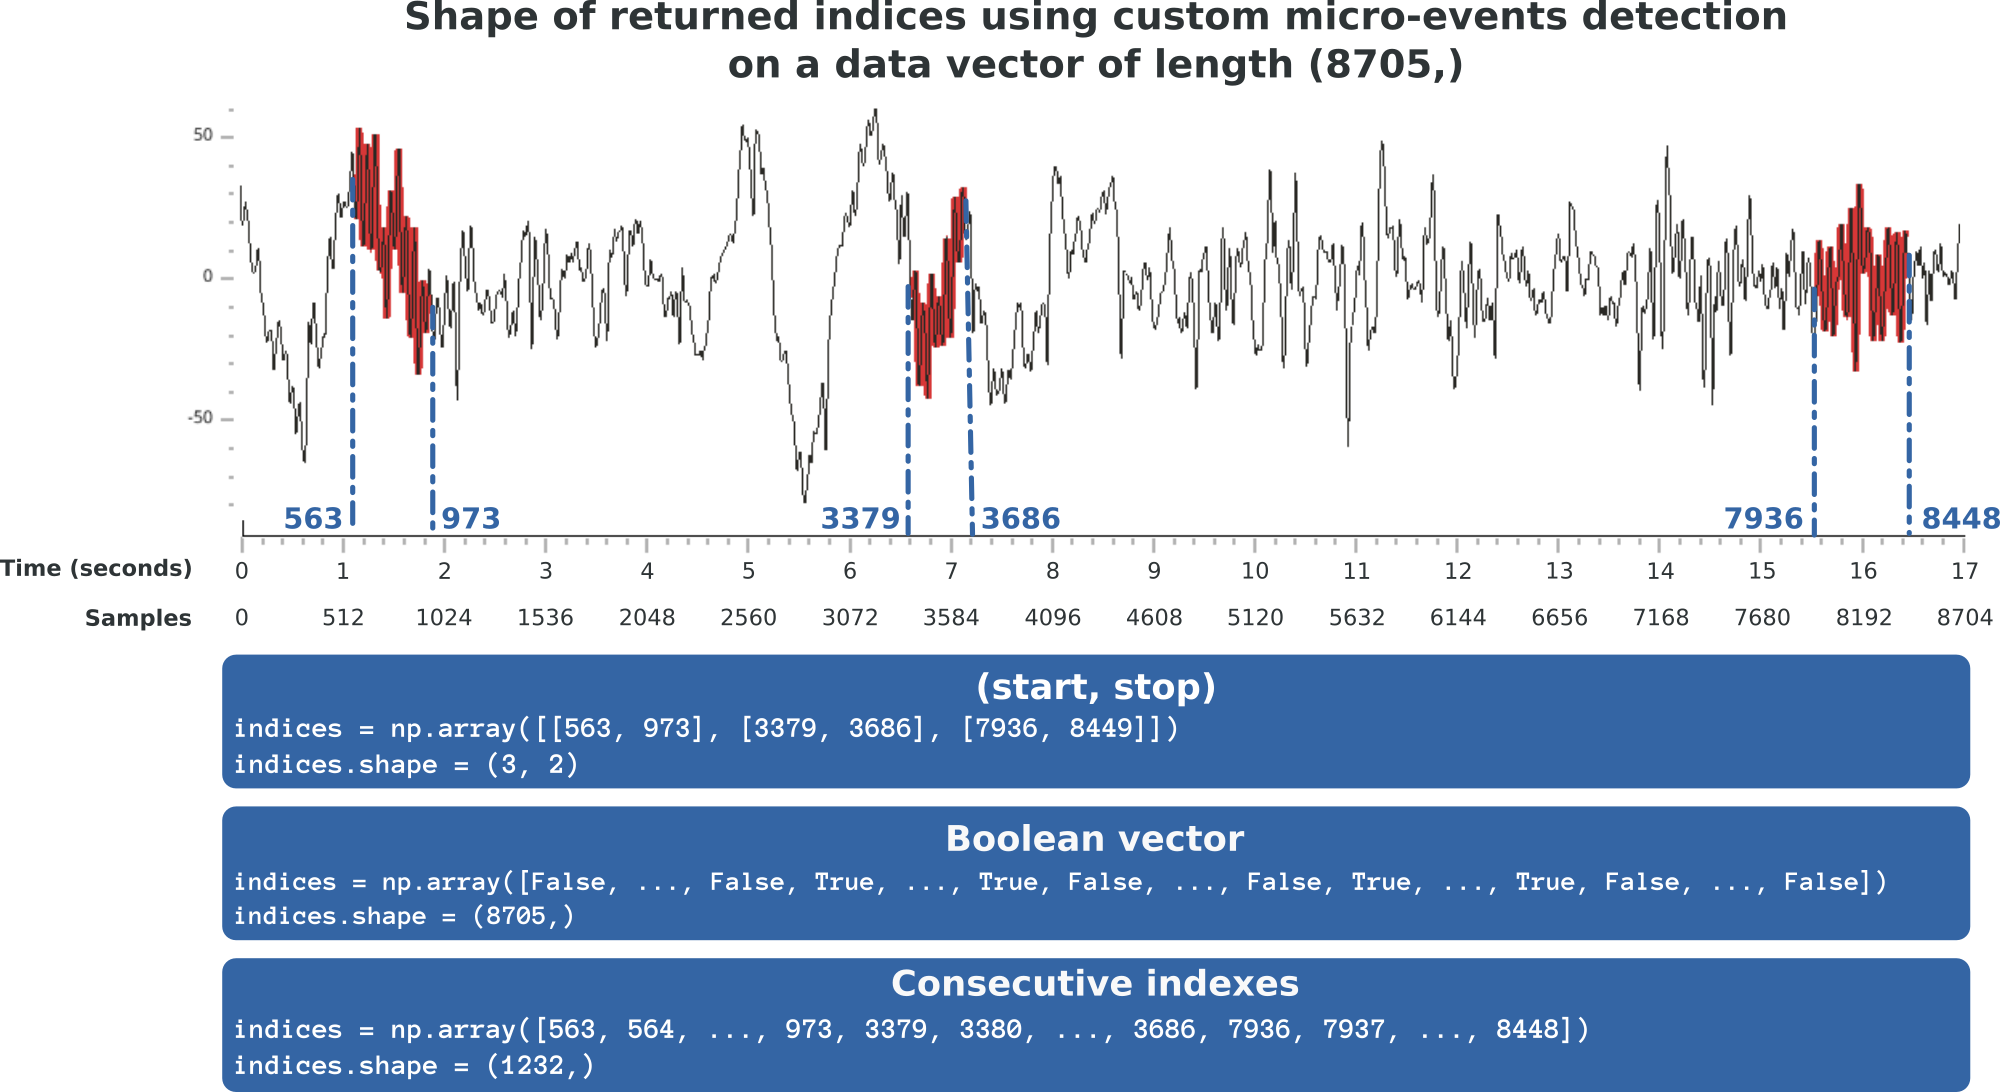
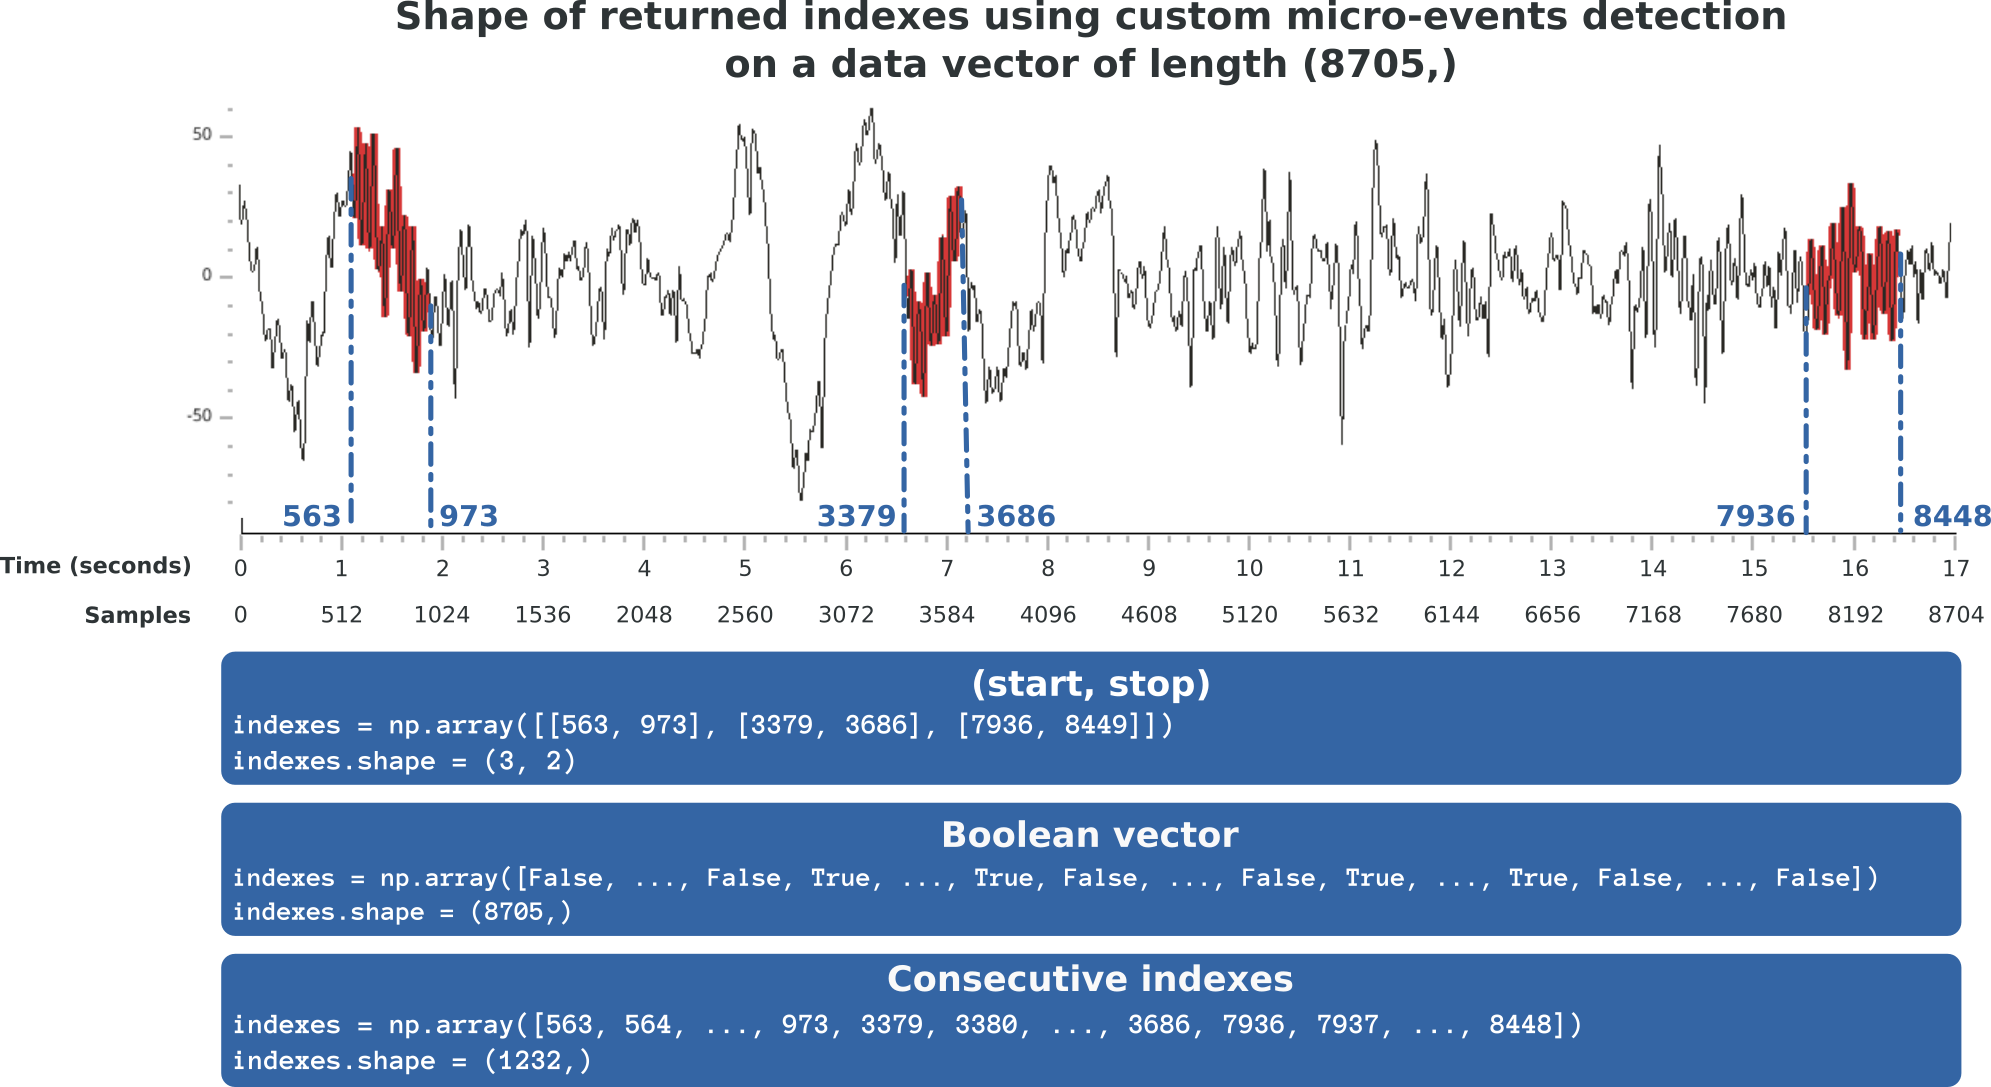
first version of the description of custom detection integration

diff --git a/docs/sleep.rst b/docs/sleep.rst
@@ -513,7 +513,7 @@ It is possible to manually load raw data and pass them as inputs arguments Sleep
 
 .. code-block:: python
 
-	from scipy.io import loadmat
+    from scipy.io import loadmat
     # Import the Sleep module from visbrain:
     from visbrain import Sleep
     # Load your dataset :
@@ -680,11 +680,56 @@ Perform a peak detection.
 Use your own detections in Sleep
 ~~~~~~~~~~~~~~~~~~~~~~~~~~~~~~~~
 
-Sleep lets you replace default detection algorithms with your own using the :class:`visbrain.Sleep.replace_detections` method.
+Sleep lets you replace default detection algorithms with your own. To do it, you have to provide a function with predefined inputs and outputs.
 
+Prototype of the function
+^^^^^^^^^^^^^^^^^^^^^^^^^
+
+Here's a prototype of a function to replace *Sleep* spindle detections :
+
+.. code-block:: python
+
+  def my_custom_spindle_detection(data, sf, time, hypno):
+      """Use your own spindle detection
+
+      Parameters
+      ----------
+      data : np.ndarray
+          Data of one unique channel (i.e shape (n_time_pts,))
+      sf : float
+           The sampling frequency (512., 1024. etc.)
+      time : np.ndarray
+          The time vector (i.e shape (n_time_pts,))
+      hypno : np.ndarray
+          The hypnogram (i.e shape (n_time_pts,))
+
+      Returns
+      -------
+      indexes : np.ndarray
+          indexes of detected events.
+      """
+      pass
+
+Format of returned indexes
+^^^^^^^^^^^^^^^^^^^^^^^^^^
+
+Several formats of returned indexes are supported :
+
+* **(Start, Stop)** : an array of shape *(n_dected_events, 2)* where *2* describes the index where each event start and finish.
+* **Boolean vector** : a boolean vector of shape *(n_time_pts,)* where each *True* value refers to a time point that belong to a detected event.
+* **Consecutive indexes** : an array which only contains consecutive indexes of detected events.
+
+Those three formats of returned indexes are summarized in the figure bellow.
 
 .. figure::  picture/picsleep/sleep_return_indices.png
    :align:   center
+
+   Supported indexes format returned by a custom detection algorithm.
+
+Replace Sleep detection
+^^^^^^^^^^^^^^^^^^^^^^^
+
+Once your function has proper inputs and outputs, use the :class:`visbrain.Sleep.replace_detections` method to replace the detection of *Sleep* with your own.
 
 
 .. ----------------------------------------------------------------------------
